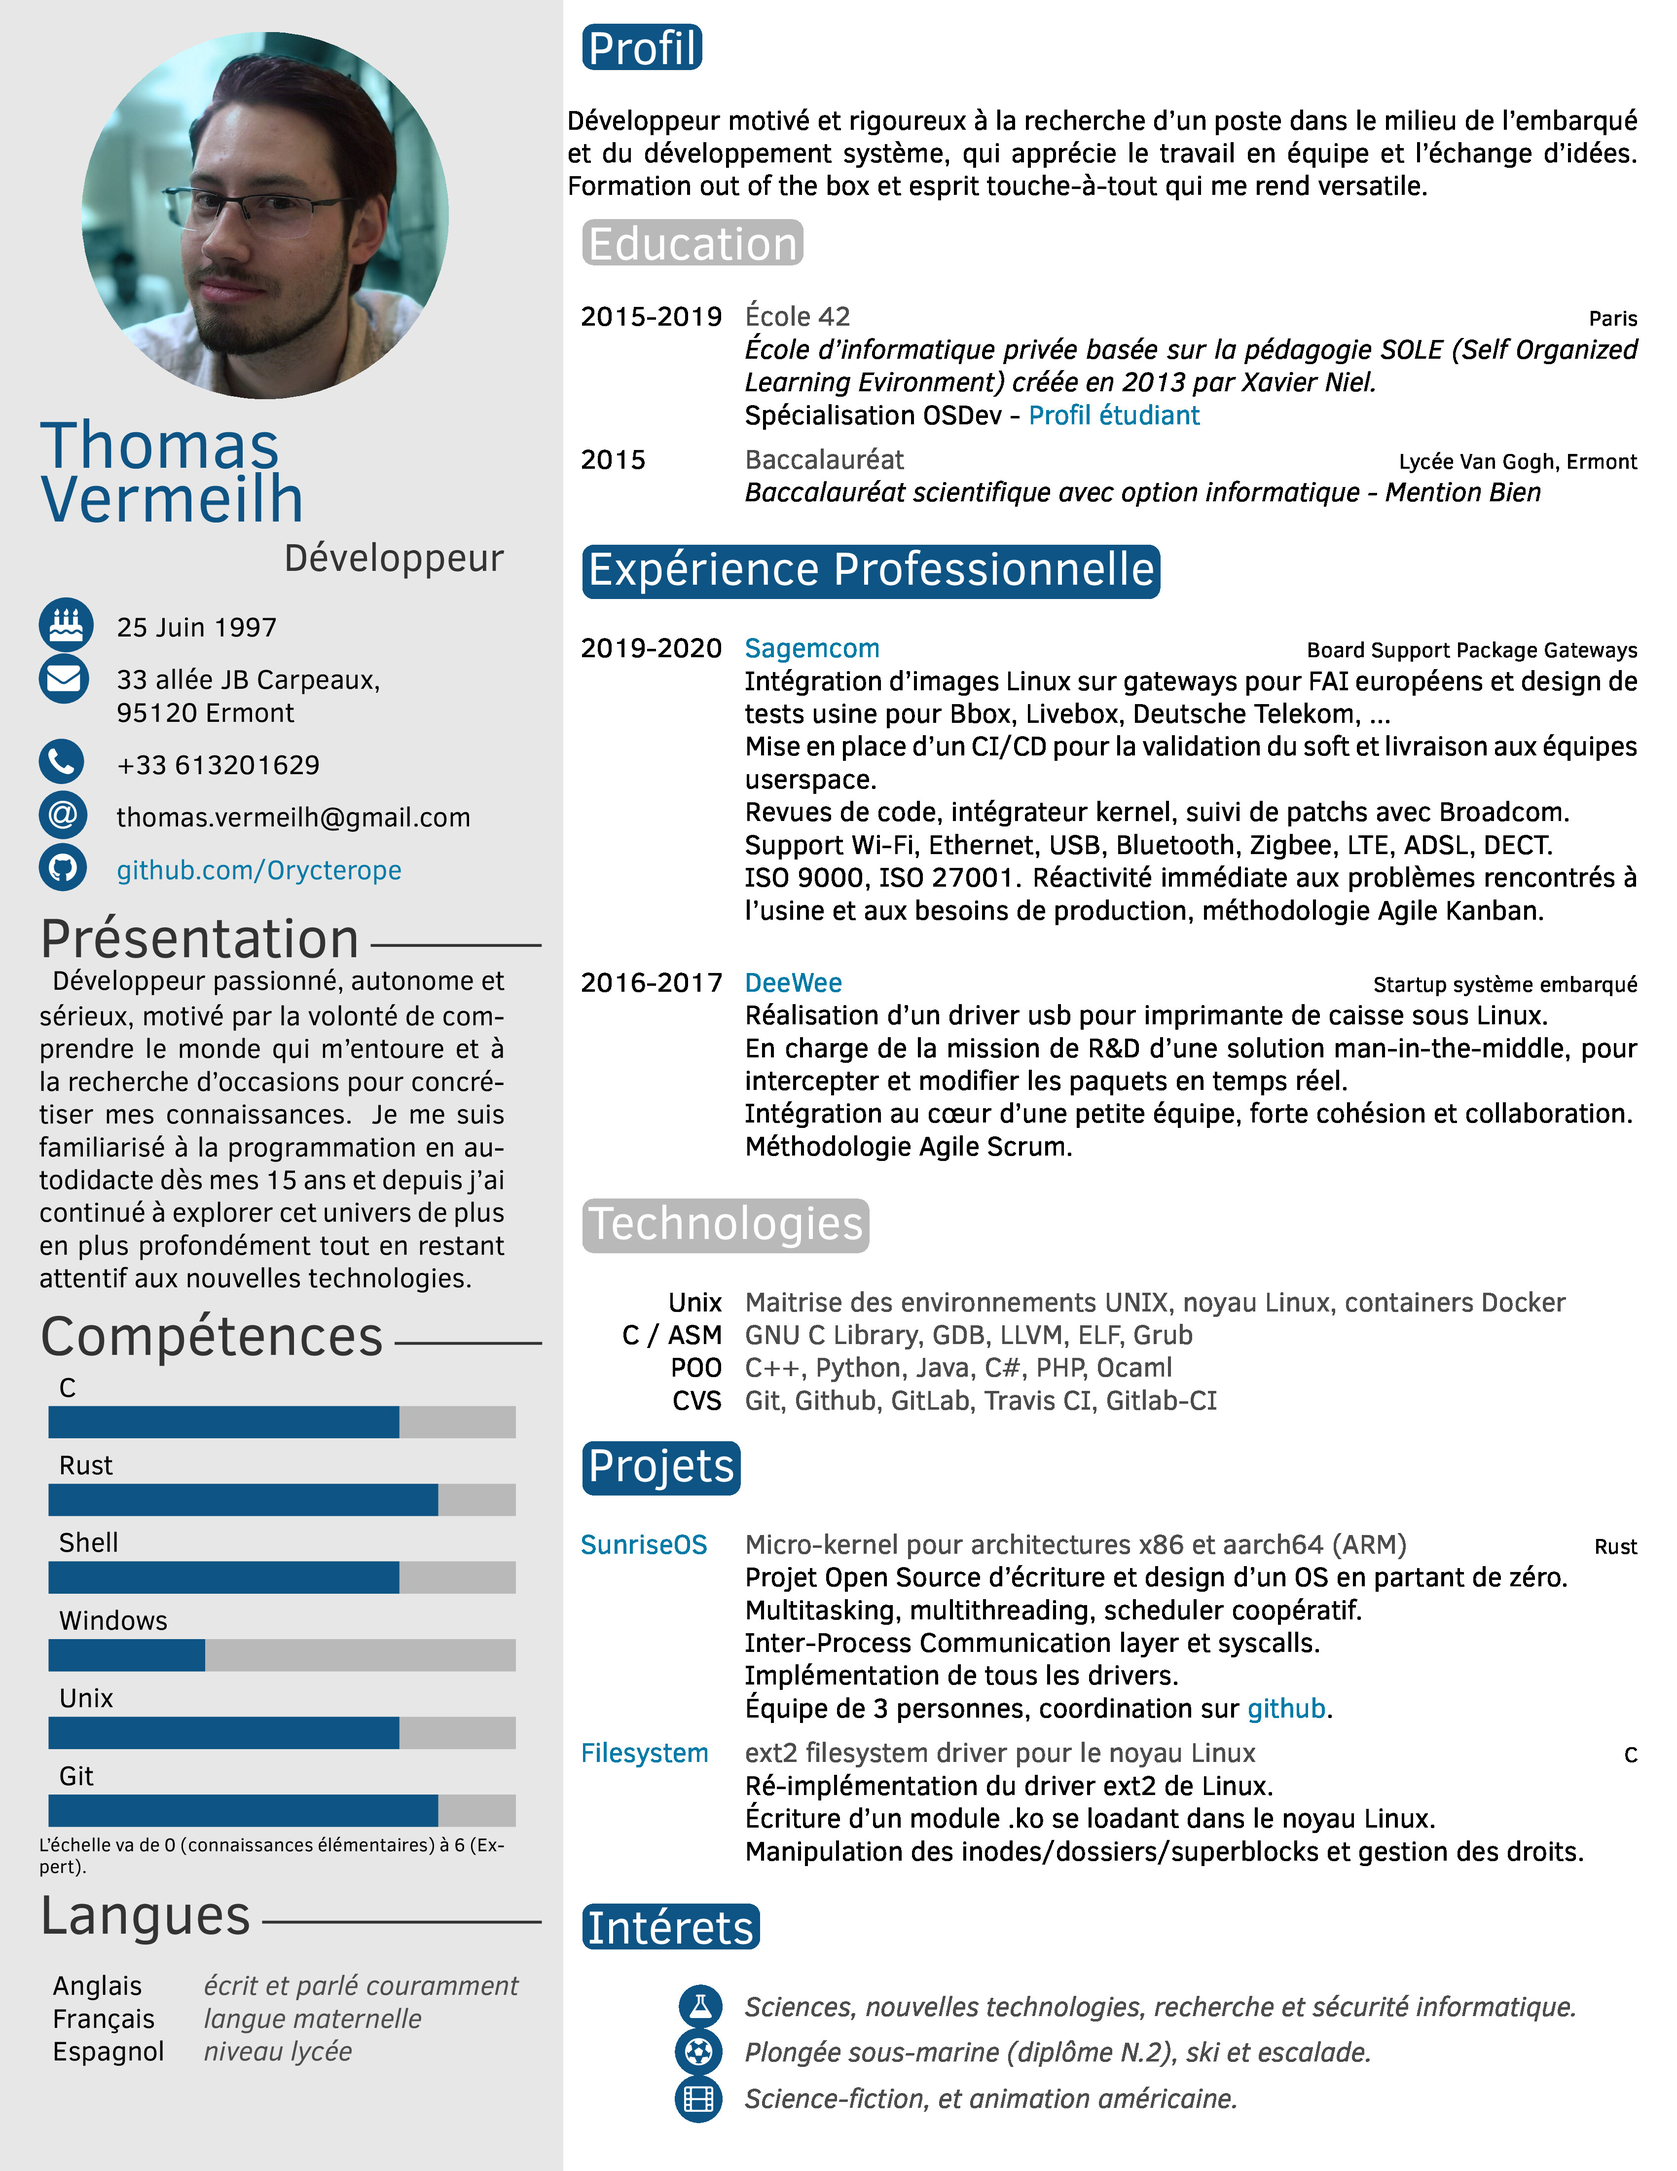
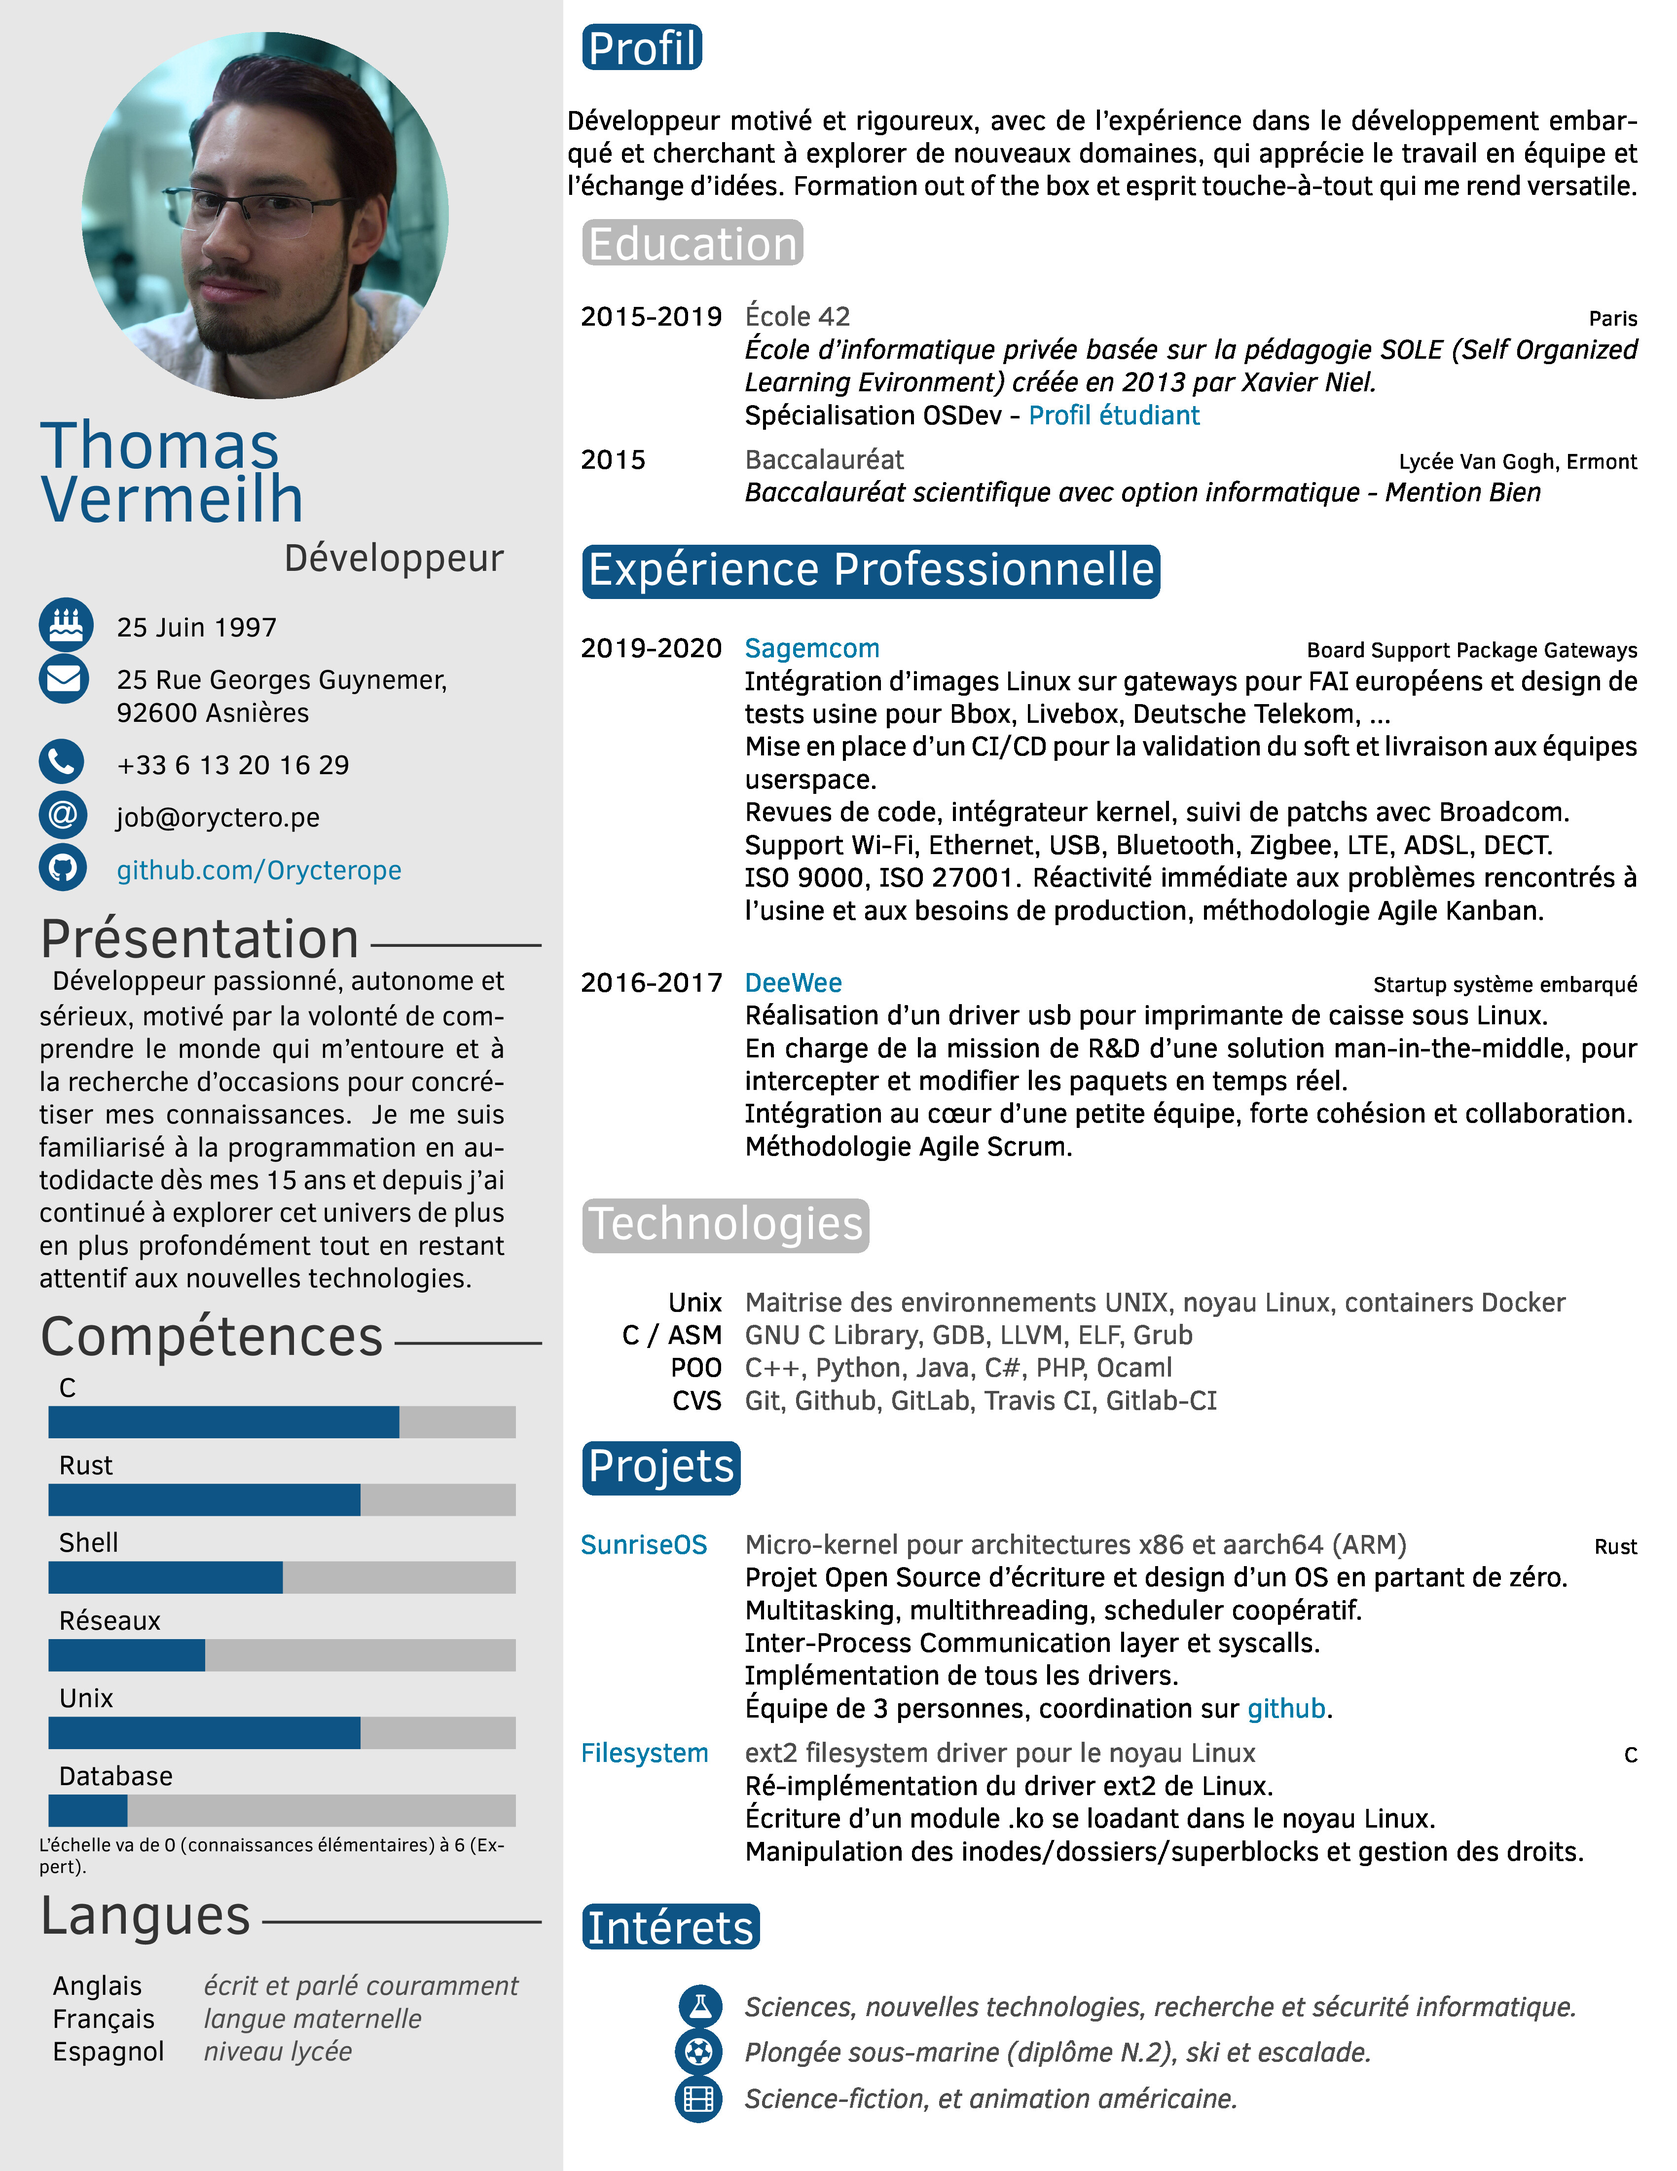
cv update

diff --git a/Twenty-Seconds_cv.tex b/Twenty-Seconds_cv.tex
@@ -14,10 +14,10 @@
 \cvname{Thomas Vermeilh} %your name
 \cvjobtitle{Développeur}%your actual job position
 \cvdate{25 Juin 1997}%date of birth
-\cvaddress{33 allée JB Carpeaux, \hfill \break 95120 Ermont}%address
-\cvnumberphone{+33 613201629}%telphone number
+\cvaddress{25 Rue Georges Guynemer, \hfill \break 92600 Asnières}%address
+\cvnumberphone{+33 6 13 20 16 29}%telphone number
 \cvsite{github.com/Orycterope}%personal site
-\cvmail{thomas.vermeilh@gmail.com}%e-mail
+\cvmail{job@oryctero.pe}%e-mail
 
 
 \aboutme{
@@ -31,7 +31,7 @@ cet univers de plus en plus profondément tout en restant attentif aux nouvelles
 %%%%%%%%%%%%%%%%%%%%%%%%%%%%%%%%%%%%%%%%%%%%%%%%%%%%%%%%%%%%%%
 %%%%%%Skill bar section, each skill must have a value between 0 an 6 (float)%%%%%%%
 %%%%%%%%%%%%%%%%%%%%%%%%%%%%%%%%%%%%%%%%%%%%%%%%%%%%%%%%%%%%%%
-\skills{{Git/5},{Unix/4.5}, {Windows/2}, {Shell/4.5},{Rust/5},{C/4.5}}
+\skills{{Database/1},{Unix/4}, {Réseaux/2}, {Shell/3},{Rust/4},{C/4.5}}
 
 %%%%%%%%%%%%%%%%%%%%%%%%%%%%%%%%%%%%%%%%%%%%%%%%%%%%%%%%%%%%%%
 %%%%%%Skill text section, each skill must have a value between 0 an 6%%%%%%%%%%%%
@@ -66,7 +66,7 @@ cet univers de plus en plus profondément tout en restant attentif aux nouvelles
 %%SIMPLE SECTION%%%%%%
 %%%%%%%%%%%%%%%%%%%%
 \section{Profil}
-Développeur motivé et rigoureux à la recherche d'un poste dans le milieu de l'embarqué et du développement système, qui apprécie le travail en équipe et l'échange d'idées. Formation out of the box et esprit touche-à-tout qui me rend versatile.
+Développeur motivé et rigoureux, avec de l'expérience dans le développement embarqué et cherchant à explorer de nouveaux domaines, qui apprécie le travail en équipe et l'échange d'idées. Formation out of the box et esprit touche-à-tout qui me rend versatile.
 
 \section{Education}
 
